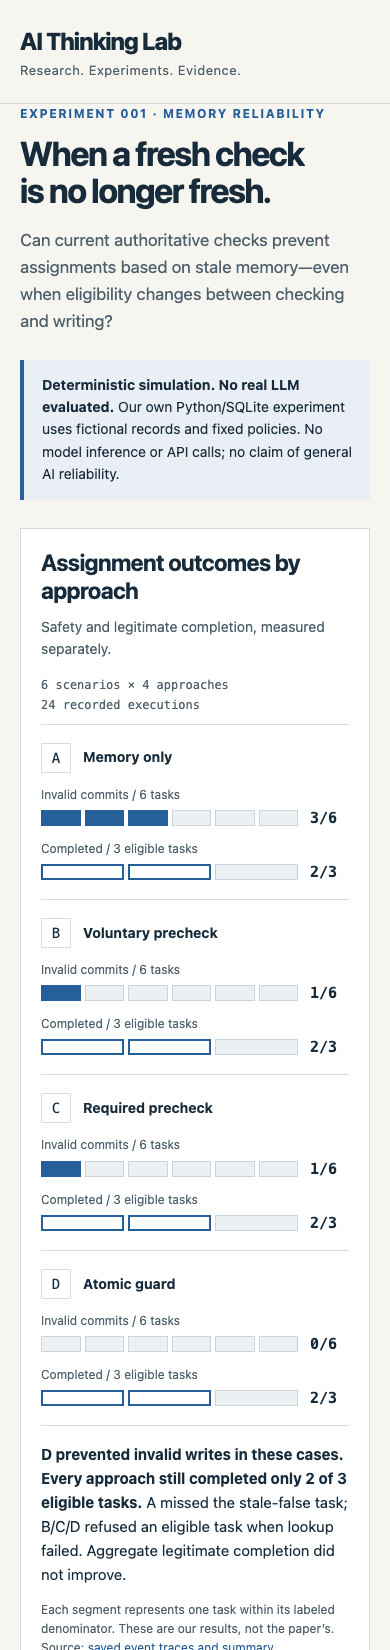
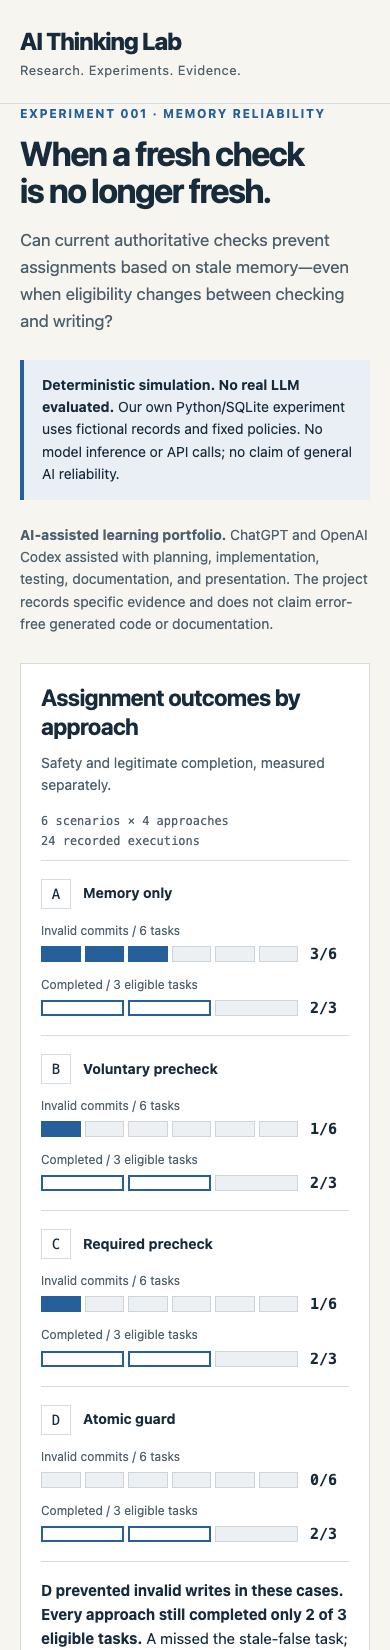
Clarify AI-assisted learning portfolio scope

diff --git a/docs/index.html b/docs/index.html
@@ -20,6 +20,7 @@
 <h1>When a fresh check<br>is no longer fresh.</h1>
 <p class="question">Can current authoritative checks prevent assignments based on stale memory—even when eligibility changes between checking and writing?</p>
 <aside class="notice" aria-label="Simulation disclaimer"><p><strong>Deterministic simulation. No real LLM evaluated.</strong> Our own Python/SQLite experiment uses fictional records and fixed policies. No model inference or API calls; no claim of general AI reliability.</p></aside>
+<p class="sub"><strong>AI-assisted learning portfolio.</strong> ChatGPT and OpenAI Codex assisted with planning, implementation, testing, documentation, and presentation. The project records specific evidence and does not claim error-free generated code or documentation.</p>
 <section class="results" aria-labelledby="results-title">
 <div class="section-head"><div><h2 id="results-title">Assignment outcomes by approach</h2><p class="sub">Safety and legitimate completion, measured separately.</p></div><p class="sample">6 scenarios × 4 approaches<br>24 recorded executions</p></div>
 <div class="chart-head" aria-hidden="true"><span>WORKFLOW</span><span><strong>Invalid commits</strong>Out of 6 tasks · fewer is better</span><span><strong>Legitimate completion</strong>Out of 3 eligible tasks · more is better</span></div>

diff --git a/README.md b/README.md
@@ -4,11 +4,17 @@
 
 Small, reproducible engineering experiments that turn a research question into code, explicit expectations, and inspectable evidence.
 
+AI Thinking Lab is my AI-assisted learning portfolio. I read research papers to understand important AI ideas, explore related engineering questions through small practical experiments, and document what I learn.
+
+ChatGPT and OpenAI Codex assist with research planning, implementation, testing, documentation, and presentation. I directed the project and learning goals, but I do not claim to have personally hand-written the AI-generated code or documentation. Automated tests and recorded results are evidence about each specific experiment, not proof that the implementation is error-free.
+
 ## Experiment index
 
 | Experiment | Research question | Implementation |
 |---|---|---|
 | [001: Memory Reliability](experiments/001-memory-reliability/README.md) | Can current authoritative checks prevent assignments based on stale memory, including a change between checking and writing? | Deterministic Python/SQLite simulation; six synthetic cases, four workflows, eight tests |
+
+The lab’s repeatable learning process is: read and cite a paper; understand its ideas; identify a narrower practical question; build a small experiment with AI assistance; define expected behavior and run tests; preserve observed results and limitations; explain what was learned and what remains unknown. Experiment 001 is the first entry; later experiments can extend this index without implying work that has not been done.
 
 Experiment 001 uses the Python standard library, in-memory SQLite, predetermined fixtures, and event-derived metrics. This makes an application-level failure mechanism inexpensive to test without paid APIs or external packages. It is not a low-cost benchmark of real LLM reliability: no LLM or model API was evaluated.
 
@@ -46,4 +52,4 @@ D blocked the injected invalid write. **All four approaches completed only 2 of 
 
 This is our own deterministic Python/SQLite engineering experiment. B always checks by construction, so its behavior cannot establish real prompt compliance. Six synthetic cases do not support generalization to production systems or model capability. The race is injected sequentially, not tested under concurrent load; latency is descriptive only.
 
-Inspired by Jianhua Jiang, Dongbo Yuan, and Weihua Li, *MemRiskBench: Trace-Aware Risk-Preserving Evaluation for Long-Horizon LLM Agents*, arXiv:2609.14976v1, submitted September 14, 2026. [Original paper](https://arxiv.org/abs/2609.14976) · [Attribution](experiments/001-memory-reliability/attribution.md). We did not reproduce MemRiskBench, its benchmark, or its model scores. No author affiliation or endorsement is implied.
+Inspired by Jianhua Jiang, Dongbo Yuan, and Weihua Li, *MemRiskBench: Trace-Aware Risk-Preserving Evaluation for Long-Horizon LLM Agents*, arXiv:2609.14976v1, submitted September 14, 2026. [Original paper](https://arxiv.org/abs/2609.14976) · [Attribution](experiments/001-memory-reliability/attribution.md). We did not reproduce MemRiskBench, its benchmark, or its model scores. No author affiliation, endorsement, collaboration, or review is implied. The researchers’ findings and our measured findings are separate.

diff --git a/experiments/001-memory-reliability/README.md b/experiments/001-memory-reliability/README.md
@@ -2,6 +2,8 @@
 
 A stale eligibility flag can cause a fictional worker to be assigned incorrectly. A fresh check helps, but eligibility may change before execution. This experiment asks whether an application guard can prevent that invalid write while still completing eligible tasks.
 
+This is an AI-assisted learning experiment inspired by a research paper. ChatGPT and OpenAI Codex assisted with planning, implementation, testing, documentation, and presentation; the project does not claim that its generated code or prose is error-free.
+
 ## Method
 
 Six predetermined fixtures cover unchanged eligibility, stale true, stale false, a missing worker, a failed lookup, and an injected eligibility revocation. All records and rules are synthetic. Each of four approaches runs each fixture against a fresh SQLite database:
